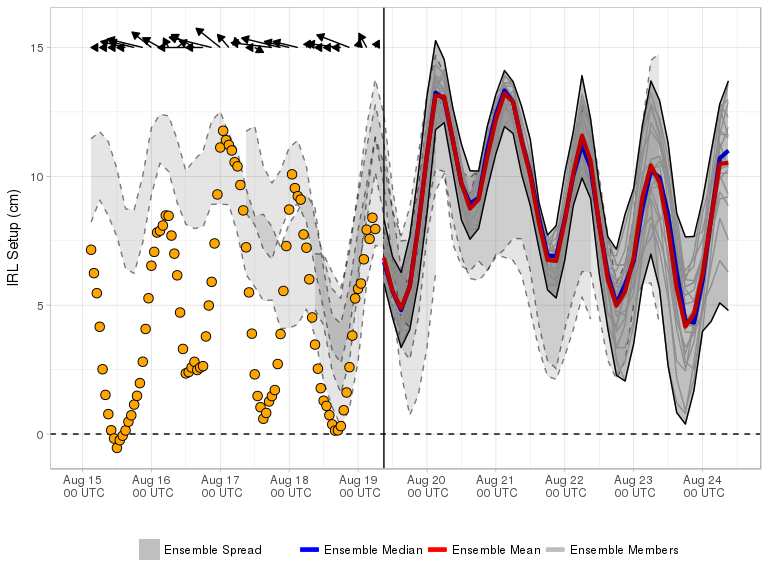
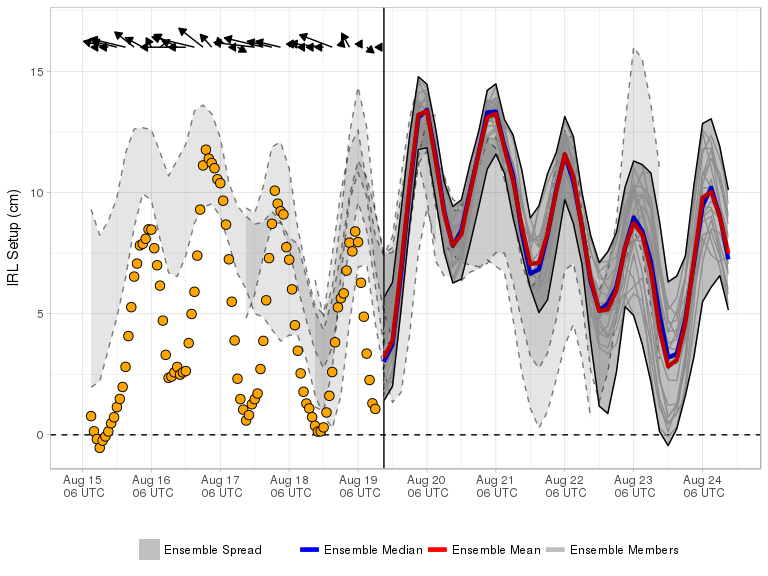
Forecast Update

Changed region(s): [[0.0938, 0.0625, 0.9688, 0.8125], [0.0938, 0.0312, 0.5, 0.0938], [0.0312, 0.3125, 0.0625, 0.3438]]

diff --git a/docs/index.md b/docs/index.md
@@ -1,9 +1,9 @@
-Current Forecast 2018-08-19, Cycle 00 UTC
+Current Forecast 2018-08-19, Cycle 06 UTC
 -----------------------------------------
 
 [![](img/raw_setup.png)](https://fit-winds.github.io/IRLSetup/img/raw_setup.png)
 
-> Forecast valid 2018-08-19 02:23:41.
+> Forecast valid 2018-08-19 08:24:34.
 
 Explanation
 -----------
@@ -23,7 +23,7 @@ Ensemble Forecast System
 cycles. Calculation of the IRL setup is performed shortly after a new
 GEFS cycle is made available on the [data access
 link](http://www.ftp.ncep.noaa.gov/data/nccf/com/gens/prod/). The
-current cycle 2018-08-19 00 UTC 0.5° GEFS mean and median forecasts of
+current cycle 2018-08-19 06 UTC 0.5° GEFS mean and median forecasts of
 setup are represented by the red and blue curves, respectively. Ensemble
 spread from the current and three previous GEFS runs are shaded grey and
 bounded by solid and dashed curves, respectively.
